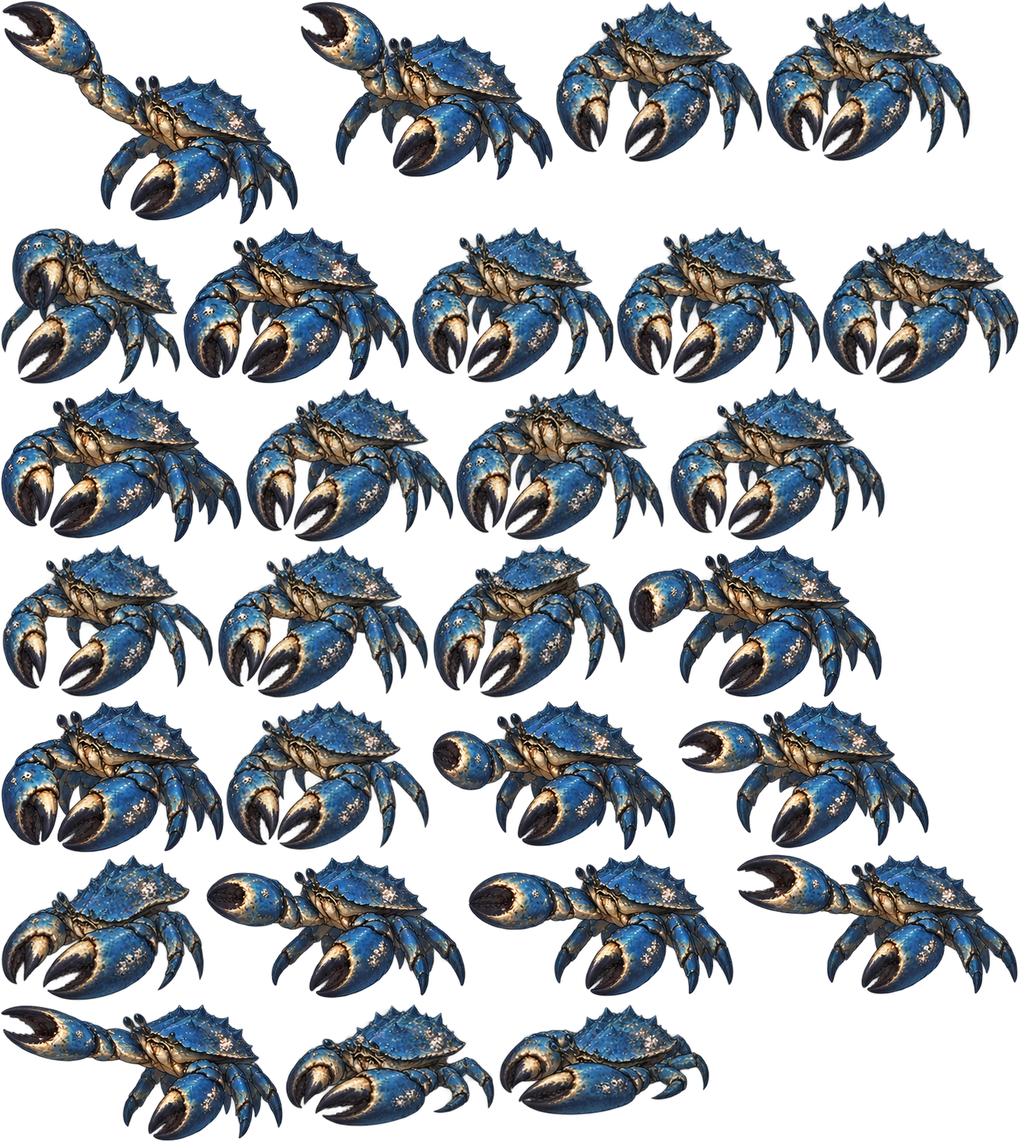
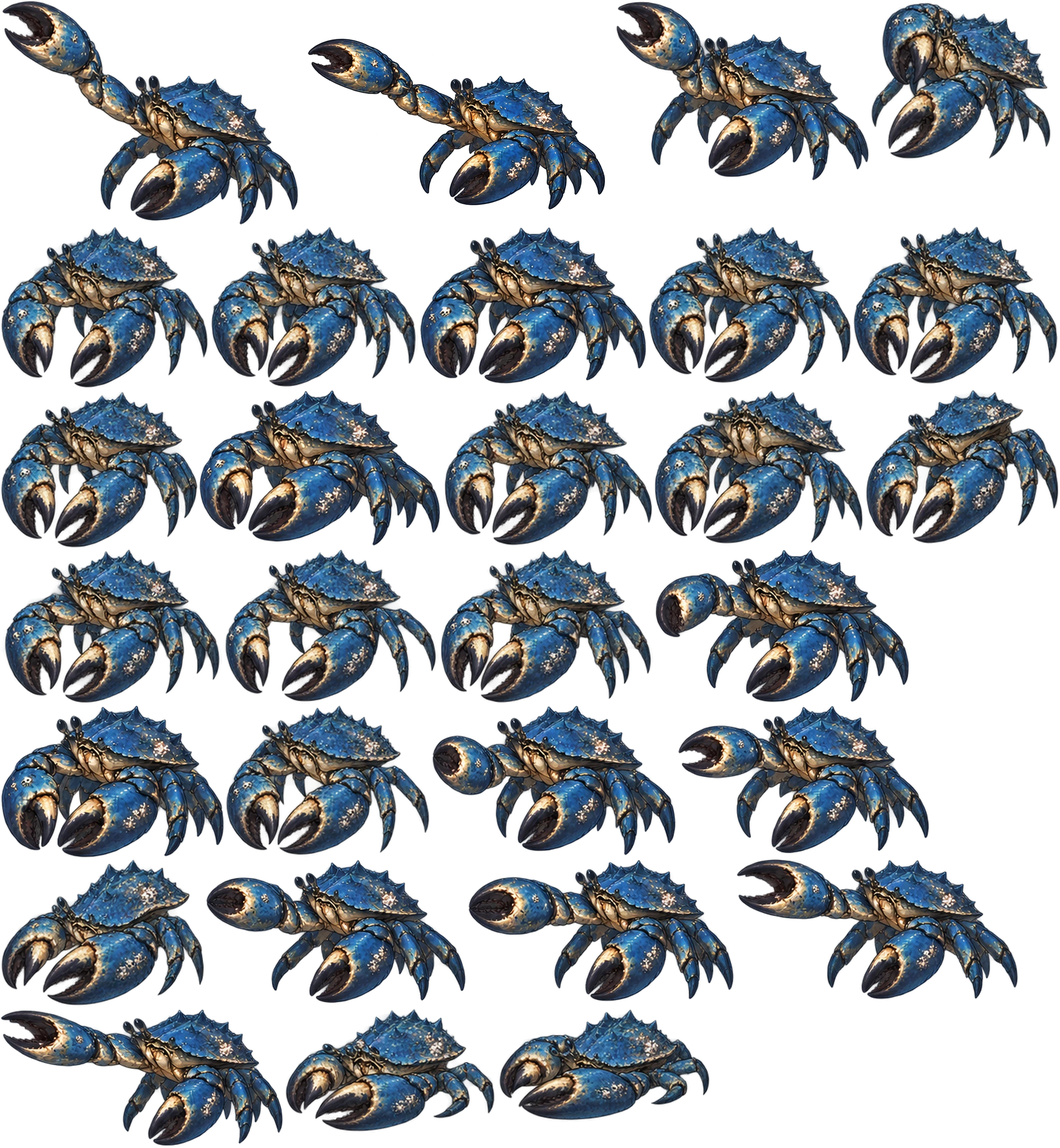
Repair Coast Hydra anatomy crab strike arc and toad hop

diff --git a/test/browser_coast_combat.js b/test/browser_coast_combat.js
@@ -25,12 +25,12 @@ const server=http.createServer((req,res)=>{
    });r.select.value='idle';r.index=0;draw(r);return {actor:r.actor,clips};
   }));
   assert.equal(report.length,4);
-  assert.equal(report.reduce((n,r)=>n+r.clips.reduce((s,c)=>s+c.count,0),0),116);
-  for(const actor of report){assert.equal(actor.clips.find(c=>c.name==='attack').count,12);for(const c of actor.clips){for(const f of c.samples){assert(f.inAtlas,actor.actor+'/'+f.frame);assert(f.visible>100,actor.actor+'/'+f.frame+' empty');}for(const contact of c.contact)assert(contact>=0&&contact<c.count);}}
+  assert.equal(report.reduce((n,r)=>n+r.clips.reduce((s,c)=>s+c.count,0),0),117);
+  for(const actor of report){assert.equal(actor.clips.find(c=>c.name==='attack').count,actor.actor==='crab'?13:12);for(const c of actor.clips){for(const f of c.samples){assert(f.inAtlas,actor.actor+'/'+f.frame);assert(f.visible>100,actor.actor+'/'+f.frame+' empty');}for(const contact of c.contact)assert(contact>=0&&contact<c.count);}}
   fs.mkdirSync(out,{recursive:true});await page.screenshot({path:path.join(out,'combat-idle.png'),fullPage:true});
-  await page.evaluate(()=>{for(const r of coastCombatReviews){r.select.value='attack';r.index=6;draw(r);}});
+  await page.evaluate(()=>{for(const r of coastCombatReviews){r.select.value='attack';r.index=r.d.clips.attack.contact[0];draw(r);}});
   await page.screenshot({path:path.join(out,'combat-contact.png'),fullPage:true});
   assert.deepEqual(errors,[]);fs.writeFileSync(path.join(out,'combat-results.json'),JSON.stringify({report,errors},null,2));
-  console.log('Coast combat preview: 4 atlases, 116 nonempty frames, contact markers and atlas bounds passed; art acceptance remains separate.');
+  console.log('Coast combat preview: 4 atlases, 117 nonempty frames, contact markers and atlas bounds passed; art acceptance remains separate.');
  }finally{await browser.close();server.close();}
 })().catch(e=>{console.error(e);server.close();process.exitCode=1;});

diff --git a/tools/build_coast_combat.py b/tools/build_coast_combat.py
@@ -54,6 +54,9 @@ def isolated_intake(actor, rows):
                 lift=([0,0,0,25,40,55,30,50,40,25,0,0][index] if kind=='attack'
                       else ([20,45,35,20][index%4] if 4<=index<12 else 0))
                 guide['groundY']+=lift
+            if actor=='toad' and kind=='base' and 4<=index<8:
+                # Authored hop, in source pixels: lift, apex, descending, land.
+                guide['groundY'] += [0, 35, 16, 0][index-4]
             frames.append(dict(file=name,frames=1,regions=[[0,0,x1-x0,y1-y0]],guide=guide,
                                bodyHeight=int(sy.max()-sy.min()+1)))
             audit.append(dict(frame=index,sourceBox=[x0,y0,x1-x0,y1-y0],solidPixels=int(sizes[label]),
@@ -62,22 +65,40 @@ def isolated_intake(actor, rows):
                            extraction='Connected silhouette plus nearest authored alpha within 16px; no repaint',frames=audit))
         return frames
     base=extract('base',4,rows*4);attack=extract('attack',3,12);clips=[]
+    def replacement(file, target, reference, width):
+        # Single-pose repairs use an explicitly measured size, never their
+        # generated canvas resolution as the actor's anatomical scale.
+        im=Image.open(SRC/file).convert('RGBA'); a=np.array(im)[:,:,3]
+        yy,xx=np.where(a>32)
+        scale=(xx.max()-xx.min()+1)/width
+        foot=xx[yy>=yy.max()-max(4,(yy.max()-yy.min())*.12)]
+        return dict(file=file,frames=1,regions=[[0,0,*im.size]],
+                    bodyHeight=target['bodyHeight'],guide=dict(
+                        referenceHeight=reference*scale,
+                        anchorX=float(np.median(foot)),groundY=int(yy.max())+1))
+    if actor=='hydra':
+        attack[3]=replacement('repairs/hydra-attack-03.png',attack[3],attack[0]['bodyHeight'],352)
+        base[14]=replacement('repairs/hydra-hit-02.png',base[14],base[0]['bodyHeight'],235)
+    if actor=='crab':
+        attack.insert(3,replacement('repairs/crab-attack-bridge.png',attack[2],attack[0]['bodyHeight'],420))
     for row,name in enumerate(['idle','approach','attack','hit','down','enrage'][:rows]):
         frames=attack if name=='attack' else base[row*4:row*4+4]
         reference=(attack if name=='attack' else base)[0]['bodyHeight']
         sources=[dict(file=f['file'],frames=1,regions=f['regions'],firstFrameZeroBased=i,
                       sha256=hashlib.sha256((SRC/f['file']).read_bytes()).hexdigest()) for i,f in enumerate(frames)]
+        attack_times=([80,65,30,35,35,40,40,65,45,45,55,65,90] if actor=='crab'
+                      else [80,65,55,45,40,40,65,45,45,55,65,90])
         clips.append(dict(id=name,frames=len(frames),sources=sources,
-            durationsMs={'idle':[180]*4,'approach':[100]*4,'attack':[80,65,55,45,40,40,65,45,45,55,65,90],
+            durationsMs={'idle':[180]*4,'approach':[100]*4,'attack':attack_times,
                          'hit':[65,75,100,100],'down':[100,130,170,250],'enrage':[130,140,230,160]}[name],
-            contactFramesZeroBased=[6] if name=='attack' else [],releaseFrameZeroBased=len(frames)-1,
+            contactFramesZeroBased=[7 if actor=='crab' else 6] if name=='attack' else [],releaseFrameZeroBased=len(frames)-1,
             loop=name in ('idle','approach'),registration=dict(referenceHeight=reference,frames=[f['guide'] for f in frames])))
     manifest=dict(actor=actor,authoredFacing=-1,clips=clips,status='preview-only; anatomy/scale review and finishers pending')
     OUT.mkdir(parents=True,exist_ok=True)
     (OUT/(actor+'-source.json')).write_text(json.dumps(manifest,indent=2),encoding='utf-8')
     doc=build(SRC,actor,OUT,height=300,quality=92,manifest=manifest);doc['authoredFacing']=-1
     (OUT/actor/(actor+'.json')).write_text(json.dumps(doc,separators=(',',':')),encoding='utf-8')
-    return dict(actor=actor,frames=rows*4+8,sources=audits)
+    return dict(actor=actor,frames=sum(c['frames'] for c in clips),sources=audits)
 
 
 if __name__=='__main__':

diff --git a/docs/CHANGELOG.md b/docs/CHANGELOG.md
@@ -15,6 +15,14 @@ of small fixes within a day.
 
 ---
 
+## 2026-10-09 - Coast targeted animation repairs
+
+Repaired the two Hydra poses flagged by QA with single-pose imagegen edits: attack index 3 and hit index 2 now show five readable heads. Added one crab claw bridge drawing (attack 12 -> 13 frames), retaining 690 ms total and contact at 325 ms (index 6 -> 7). Toad approach now uses source-pixel hop offsets [0,35,16,0] instead of all-zero lift. Original source masters preserved; repair masters and prompt records saved. Preview-only, not an unlocked quest.
+
+Files: tools/build_coast_combat.py, docs/art/coast-20261008/combat generated atlas/metadata, repair-prompts.json, QA.md, test/browser_coast_combat.js. Source repairs live outside runtime in adventurer-expeditions-source-art/astra-v5/coast-20261008/repairs. New single-pose drawings use explicit scale registration against their original sprite width; no per-frame auto-fit. Registered comparison inspected at test/reports/coast/qa/repairs.jpg.
+
+Validation: npm test passed; browser Coast preview passed four atlases and 117 nonempty frames (previously 116), bounds/contact markers and no browser errors. Repairs improve the flagged poses; final Hiro-relative scale, paired contact and full journey acceptance remain pending. Coast still needs complete paired finishers, travel and quest integration; Citadel remains queued. No original Adventurer changes or publishing.
+
 ## 2026-10-09 - Defeat finisher reliability and fifth-location direction
 
 User reported that enemy finishers still did not play when Hiro was defeated. Found a default-state coverage gap: website preference started false when absent, while browser tests explicitly enabled it. Website default is now on; explicit saved off is preserved; restricted profiles remain disabled and never load adult assets. This confirms a fresh-profile problem, not the user's exact saved preference. Added EnemyFinishers.ensureDefeat at the final defeat boundary so missing down presentation or an already-down visual actor can still play an eligible loaded enemy's finisher before End. No random chance; do not replay an already-presented execution. Existing <=30% direct-hit execution remains unchanged. A missing/destroyed eligible enemy or missing art still uses ordinary defeat.

diff --git a/docs/art/coast-20261008/QA.md b/docs/art/coast-20261008/QA.md
@@ -57,3 +57,7 @@ Coast Hiro/enemy finishers, travel choreography, quest registration, balance,
 and the complete journey remain unfinished and outside this pass's approval.
 Keep Coast locked. Repair the three specific animation findings, then review
 the actors beside Hiro before spending on broad replacement art.
+
+## October 9 repair follow-up
+
+Three targeted findings addressed in the preview: Hydra attack 3 and hit 2 repainted with five heads; crab bridge inserted (13 attack poses, unchanged 690 ms total and 325 ms contact); toad hop offsets authored. Four atlases now contain 117 frames. Browser checks and npm test pass. Registered adjacent-pose comparison inspected in test/reports/coast/qa/repairs.jpg. This does not approve unfinished pairs or unlock Coast.
